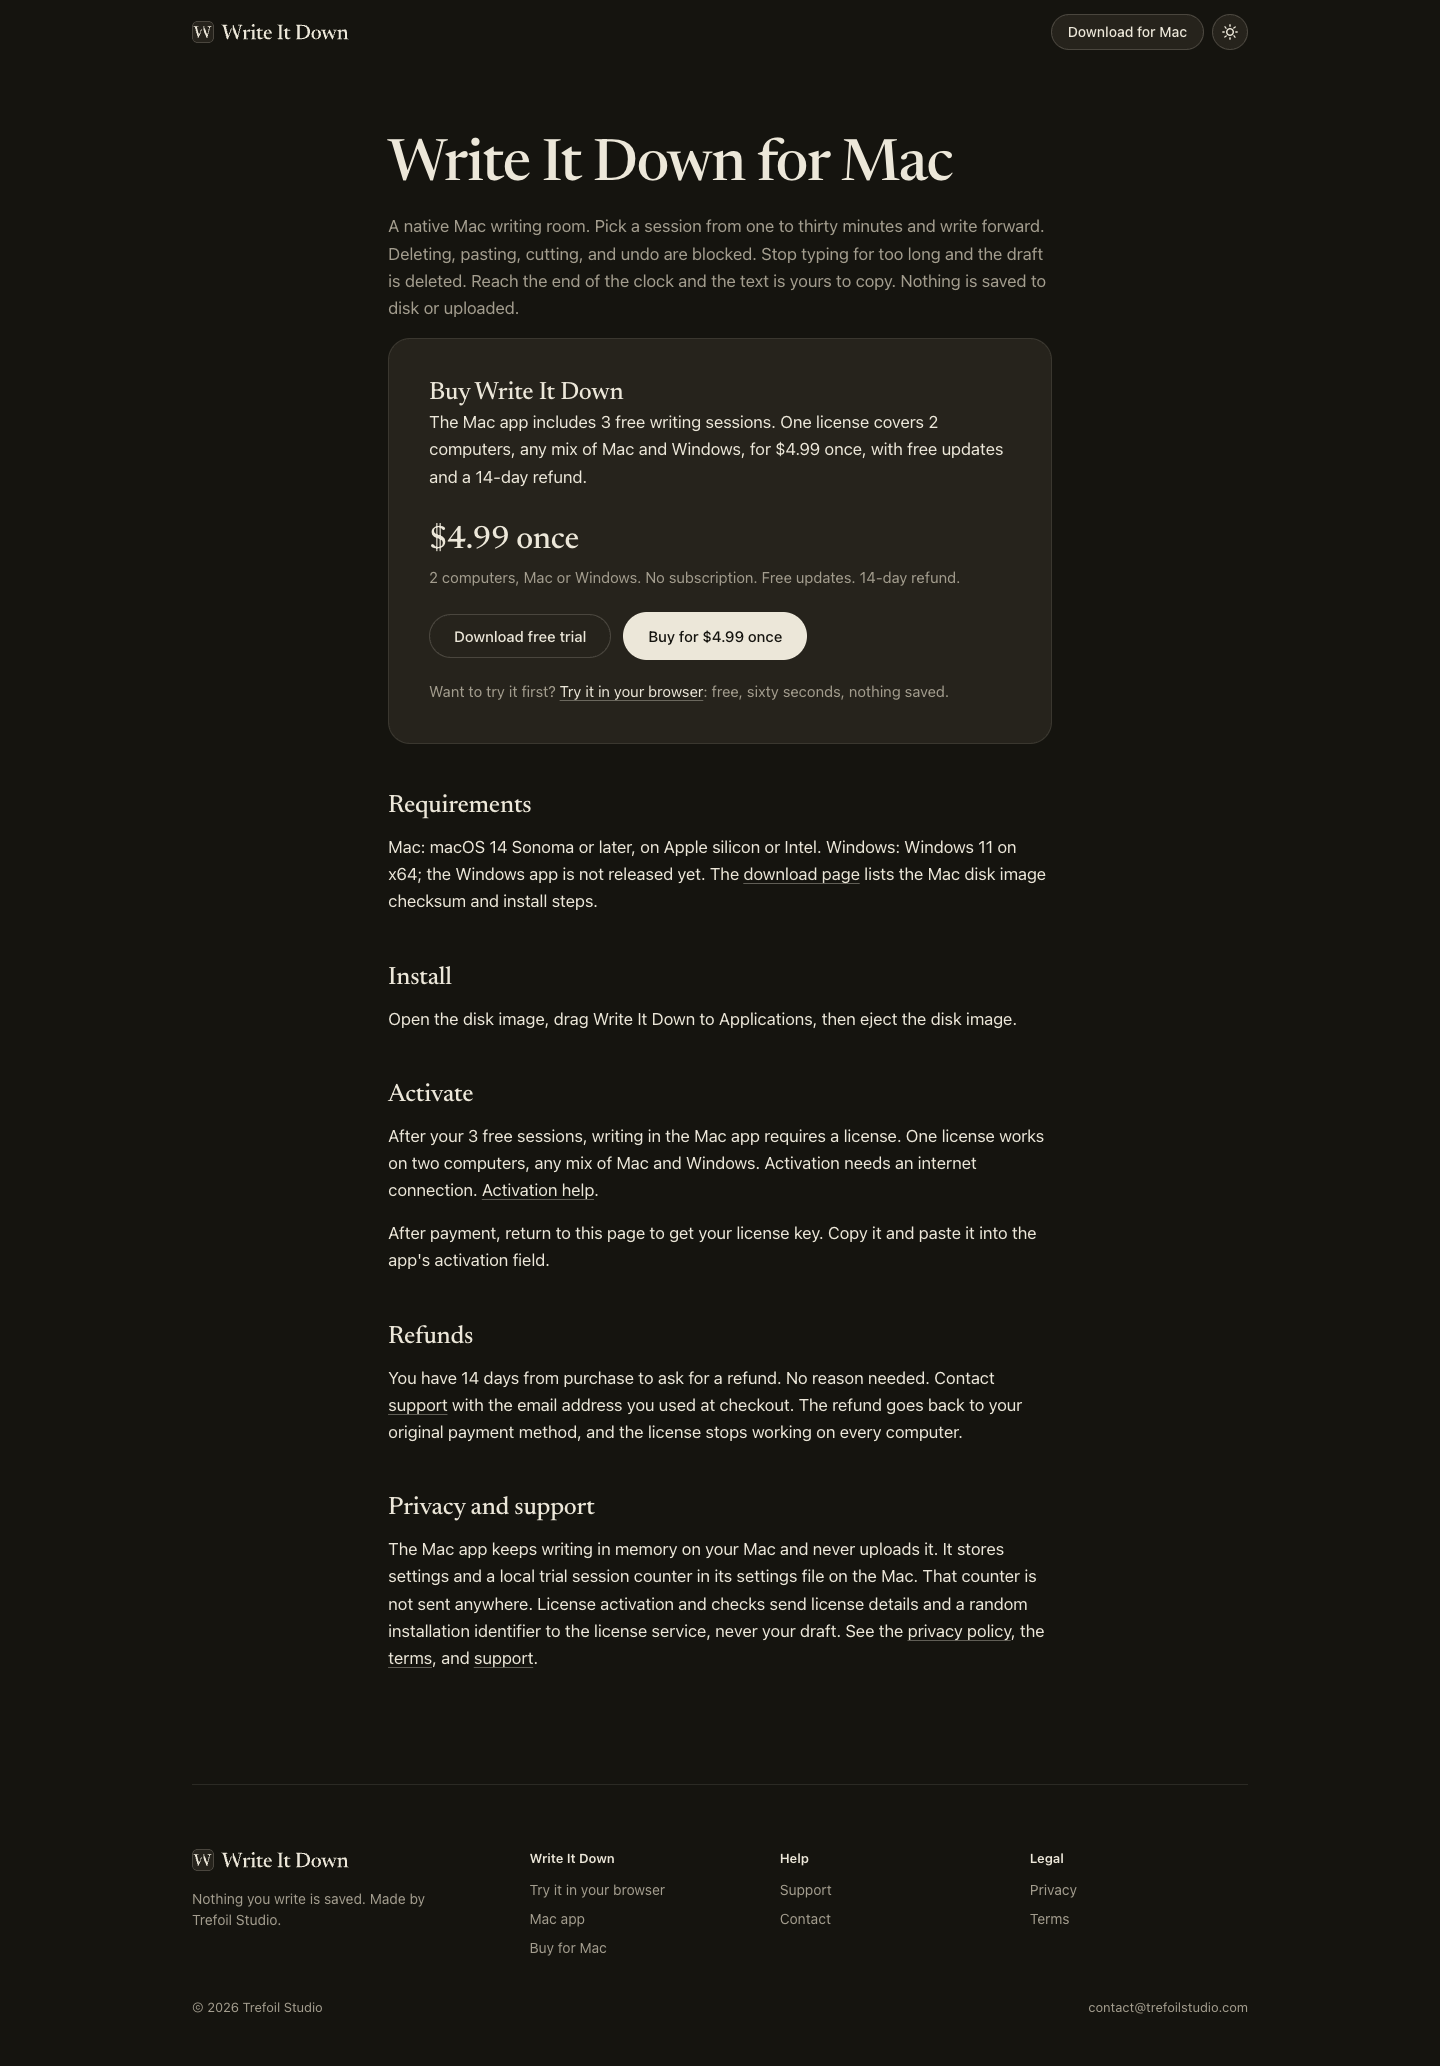
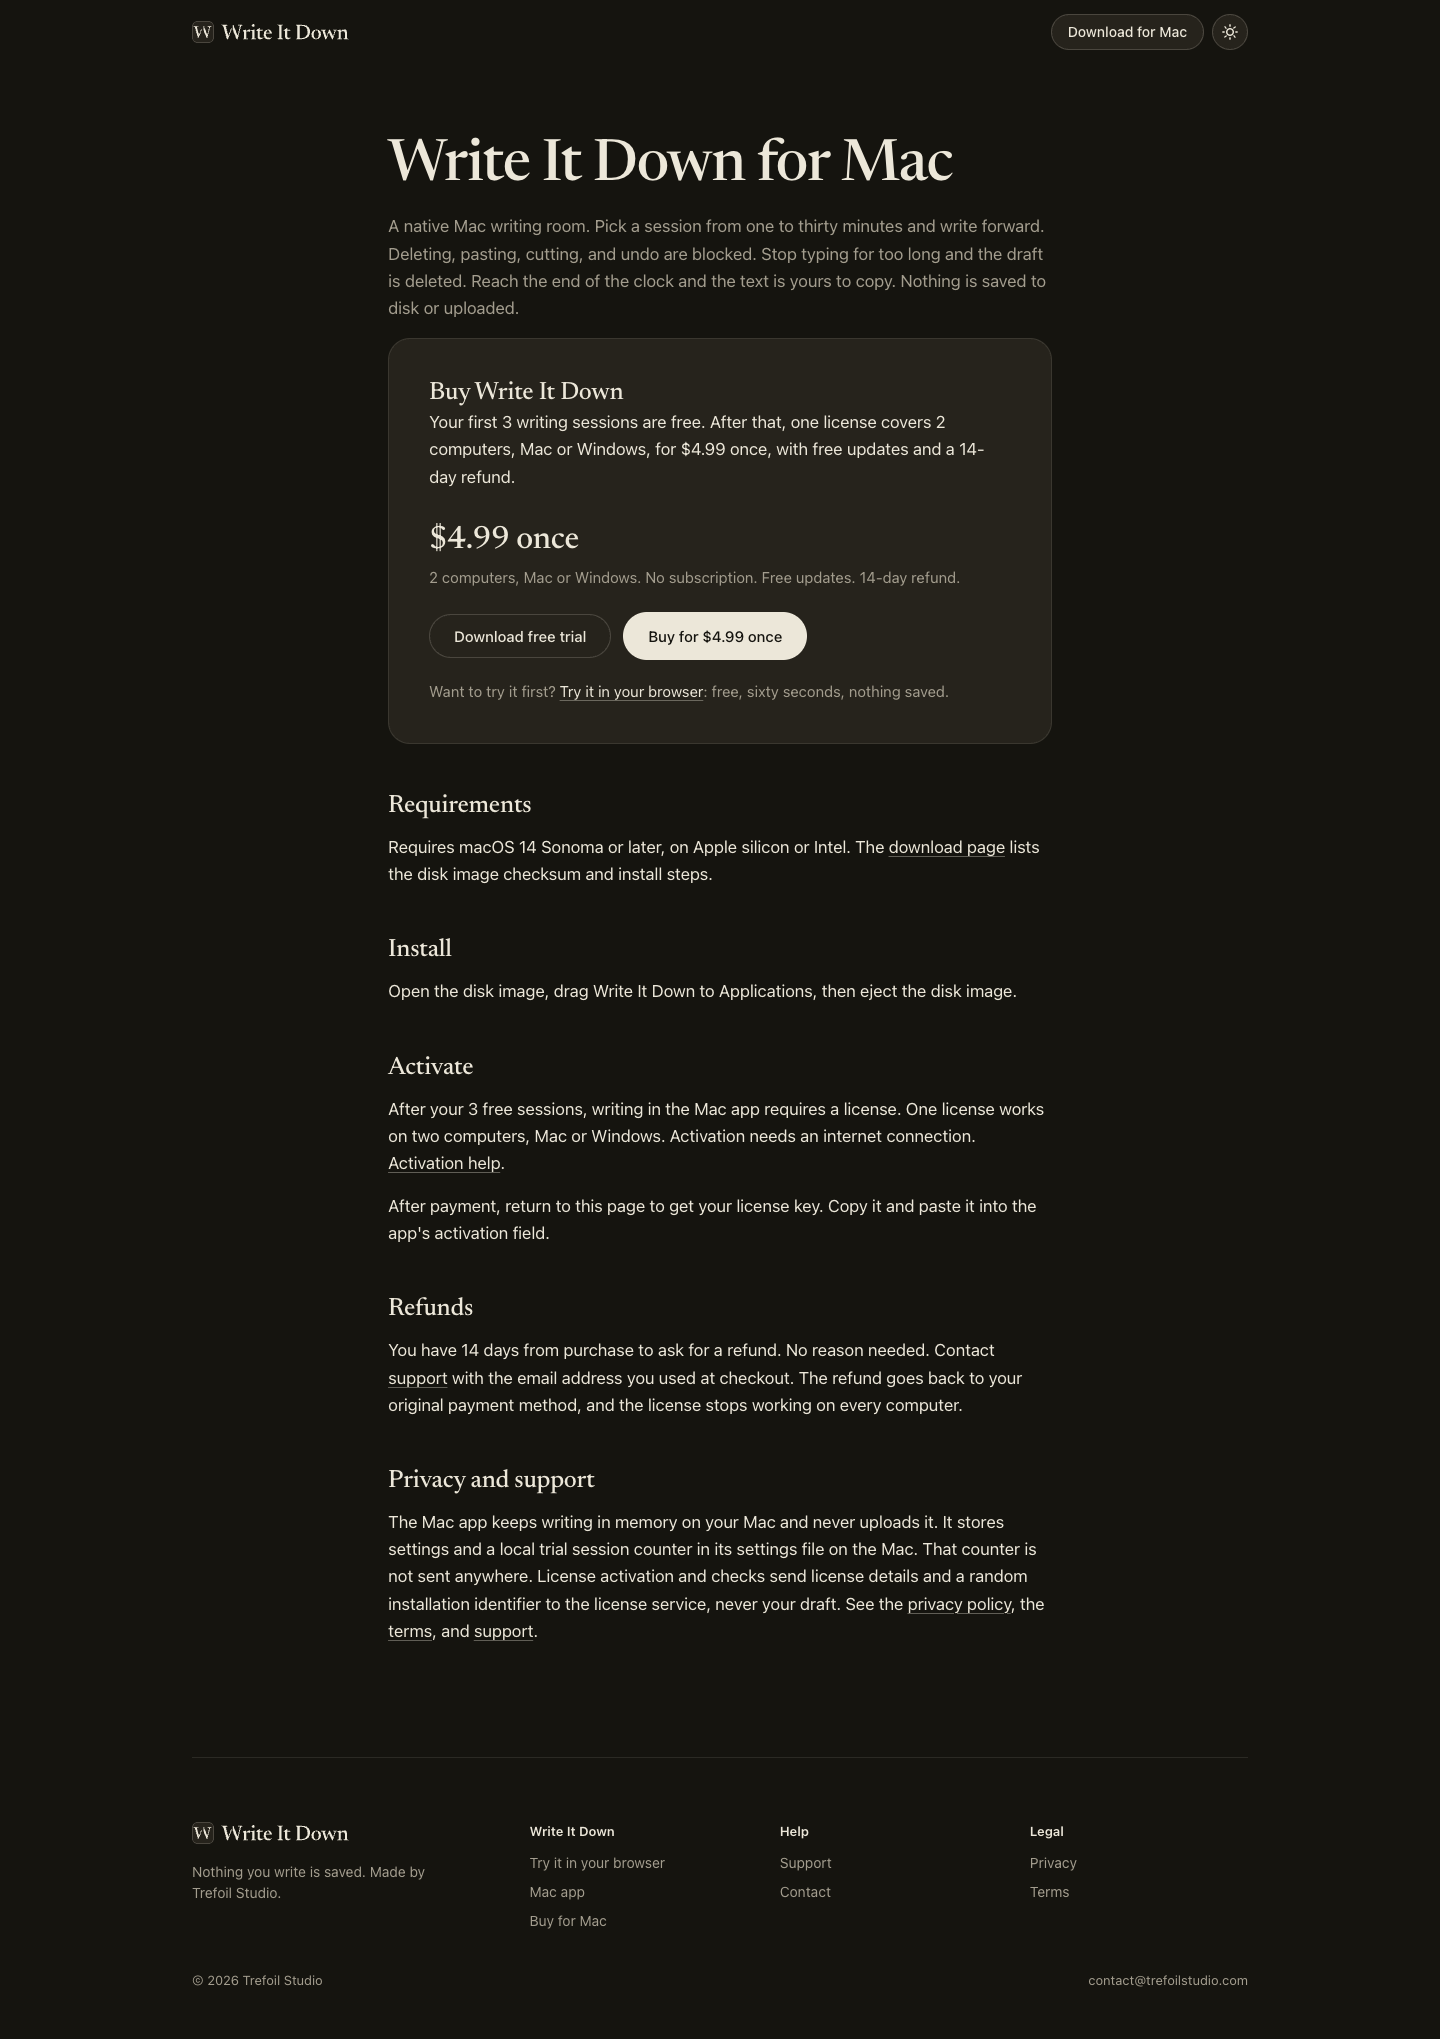
copy(writeitdown): Windows only in the licence terms on the purchase page
The purchase page keeps the Mac-only requirement and download copy. The licence
is one price for two computers, Mac or Windows. The Windows requirement line is
removed, the original first-3-sessions sentence is restored, and the terms and
privacy licence counts say "computers" to match.

diff --git a/writeitdown/privacy.html b/writeitdown/privacy.html
@@ -23,7 +23,7 @@
 <h2>What the browser remembers</h2><p>The site stores only your light or dark appearance preference in localStorage. Clearing this site's browser data removes that preference. We do not use tracking cookies or accounts. We count page visits with Cloudflare Web Analytics, which sets no cookies.</p>
 <h2>Requests outside your draft</h2><p>The hosting server receives ordinary page requests, including your IP address and browser information. The hosting stack may keep access and security logs. Those requests do not contain your draft.</p><p>The site serves its own fonts. No request leaves this site to fetch a typeface, so no font provider sees that you visited. The only outside requests are the cookieless analytics beacon and, on the Mac page, the license service.</p>
 <h2>Copying and leaving</h2><p>COPY TEXT writes your draft to your device clipboard only when you ask. Your operating system or clipboard manager may keep that copy. Leaving the room, reloading, or closing the tab discards the draft from this app.</p>
-<h2 id="mac">Mac app</h2><p>The Mac app keeps writing in memory on your Mac. Your first 3 writing sessions are free. After that a license covers 2 Macs for $4.99 once, with a 14-day refund. Free updates included. It stores settings and a local trial session counter in its settings file on the Mac. That counter is not sent anywhere. Activating and checking a license sends license details and a random installation identifier to the license service, not your draft.</p><p>Checkout uses the payment provider's page under its privacy policy. The provider shares your email address and order details with us for support and refunds; we do not receive your card details. Downloading the app makes an ordinary request to the server hosting the disk image.</p><p>Updates are opt-in. No check runs unless you turn on <b>Check for updates automatically</b> in Settings or choose <b>Check for Updates…</b> from the app menu. A check downloads one small version file from writeitdown.app; the request carries no identifier and nothing about your writing. A downloaded update waits in the Mac's cache until it is installed.</p>
+<h2 id="mac">Mac app</h2><p>The Mac app keeps writing in memory on your Mac. Your first 3 writing sessions are free. After that a license covers 2 computers for $4.99 once, with a 14-day refund. Free updates included. It stores settings and a local trial session counter in its settings file on the Mac. That counter is not sent anywhere. Activating and checking a license sends license details and a random installation identifier to the license service, not your draft.</p><p>Checkout uses the payment provider's page under its privacy policy. The provider shares your email address and order details with us for support and refunds; we do not receive your card details. Downloading the app makes an ordinary request to the server hosting the disk image.</p><p>Updates are opt-in. No check runs unless you turn on <b>Check for updates automatically</b> in Settings or choose <b>Check for Updates…</b> from the app menu. A check downloads one small version file from writeitdown.app; the request carries no identifier and nothing about your writing. A downloaded update waits in the Mac's cache until it is installed.</p>
 <h2 id="waitlist">Mac waitlist</h2><p>The Mac waitlist is closed. If you previously joined it, Trefoil Studio stores your email address and the time you sent it on the writeitdown.app server, and nothing else. The address is used for one email when Write It Down for Mac can be bought, and for nothing else. It is never shared with third parties. Write to <a href="mailto:contact@trefoilstudio.com">contact@trefoilstudio.com</a> at any time to be removed.</p>
 <h2>Contact</h2><p>Write It Down is made by Trefoil Studio. Write to <a href="mailto:contact@trefoilstudio.com">contact@trefoilstudio.com</a>.</p><p class="doc-meta">Updated October 25, 2026</p></main>
 <footer class="home-foot">

diff --git a/writeitdown/mac.html b/writeitdown/mac.html
@@ -26,7 +26,7 @@
 <p class="doc-lede">A native Mac writing room. Pick a session from one to thirty minutes and write forward. Deleting, pasting, cutting, and undo are blocked. Stop typing for too long and the draft is deleted. Reach the end of the clock and the text is yours to copy. Nothing is saved to disk or uploaded.</p>
 <section class="card doc-buy" id="buy" aria-labelledby="buy-heading">
 <h2 id="buy-heading">Buy Write It Down</h2>
-<p>The Mac app includes 3 free writing sessions. One license covers 2 computers, any mix of Mac and Windows, for $4.99 once, with free updates and a 14-day refund.</p>
+<p>Your first 3 writing sessions are free. After that, one license covers 2 computers, Mac or Windows, for $4.99 once, with free updates and a 14-day refund.</p>
 <div class="price-row" id="price-row"><p class="doc-price" id="price">$4.99 once</p><p class="doc-note">2 computers, Mac or Windows. No subscription. Free updates. 14-day refund.</p></div>
 <div class="doc-actions">
 <a class="btn btn-ghost" href="download/">Download free trial</a>
@@ -49,11 +49,11 @@
 <div class="doc-actions" id="license-retry-row" hidden><button class="btn btn-ghost" id="retry-license" type="button">Check again</button></div>
 </section>
 <h2 id="requirements">Requirements</h2>
-<p>Mac: macOS 14 Sonoma or later, on Apple silicon or Intel. Windows: Windows 11 on x64; the Windows app is not released yet. The <a href="download/">download page</a> lists the Mac disk image checksum and install steps.</p>
+<p>Requires macOS 14 Sonoma or later, on Apple silicon or Intel. The <a href="download/">download page</a> lists the disk image checksum and install steps.</p>
 <h2 id="install">Install</h2>
 <p>Open the disk image, drag Write It Down to Applications, then eject the disk image.</p>
 <h2 id="activate">Activate</h2>
-<p>After your 3 free sessions, writing in the Mac app requires a license. One license works on two computers, any mix of Mac and Windows. Activation needs an internet connection. <a href="support.html#mac">Activation help</a>.</p>
+<p>After your 3 free sessions, writing in the Mac app requires a license. One license works on two computers, Mac or Windows. Activation needs an internet connection. <a href="support.html#mac">Activation help</a>.</p>
 <p data-launch="license">After payment, return to this page to get your license key. Copy it and paste it into the app's activation field.</p>
 <h2 id="refund">Refunds</h2>
 <p>You have 14 days from purchase to ask for a refund. No reason needed. Contact <a href="support.html#contact">support</a> with the email address you used at checkout. The refund goes back to your original payment method, and the license stops working on every computer.</p>

diff --git a/writeitdown/terms.html b/writeitdown/terms.html
@@ -24,7 +24,7 @@
 <h2>No backup</h2><p>Kept does not mean saved. Copy your text before leaving. The trial has no cloud storage or recovery. Do not use it as the only copy of anything you cannot afford to lose.</p>
 <h2>Your writing</h2><p>Your words remain yours. We claim no ownership of them. You are responsible for what you write and how you use it.</p>
 <h2>Availability</h2><p>The trial is provided as is. Browsers, devices, or network failures may interrupt it. To the extent allowed by law, we do not promise uninterrupted access or accept liability for lost drafts. These terms do not limit rights that cannot legally be waived.</p>
-<h2 id="mac">Mac app</h2><p>The Mac app includes 3 free writing sessions. A session counts once you type its first character. After that, writing in the Mac app requires a license: $4.99 once for two Macs, with a 14-day refund and no subscription. Free updates included. The browser trial stays free. The price is shown on the <a href="mac.html">Mac page</a> and at checkout. The no-backup rule above applies to the Mac app too.</p>
+<h2 id="mac">Mac app</h2><p>The Mac app includes 3 free writing sessions. A session counts once you type its first character. After that, writing in the Mac app requires a license: $4.99 once for two computers, with a 14-day refund and no subscription. Free updates included. The browser trial stays free. The price is shown on the <a href="mac.html">Mac page</a> and at checkout. The no-backup rule above applies to the Mac app too.</p>
 <h2 id="refund">Refunds</h2><p>You can ask for a refund within 14 days of purchase, for any reason. Contact <a href="support.html#contact">support</a> with the email address used at checkout. The refund is paid to the original payment method, and the refunded license stops working.</p>
 <h2>Contact</h2><p>See <a href="support.html#contact">Support</a>.</p><p class="doc-meta">Updated October 22, 2026</p></main>
 <footer class="home-foot">
